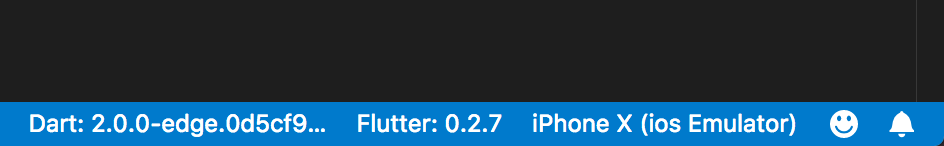
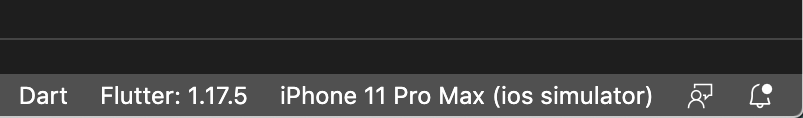
Update VS Code status bar images (#4337)
(The old image showed Flutter v0.2.7! We've come a long way since then.)

diff --git a/src/docs/development/tools/vs-code.md b/src/docs/development/tools/vs-code.md
@@ -71,7 +71,7 @@ enables the following:
   (**View > Problems** or `Ctrl`+`Shift`+`M`
   (`Cmd`+`Shift`+`M` on macOS))
   Any analysis issues are shown in the Problems pane:<br>
-  ![Problems pane]({% asset tools/vs-code/problems.png @path %}){:width="90%"}
+  ![Problems pane]({% asset tools/vs-code/problems.png @path %}){:.mw-100.pt-1}
 
 ## Running and debugging
 
@@ -99,9 +99,8 @@ from the main IDE window, or press `F5`.
 When a Flutter project is open in VS Code,
 you should see a set of Flutter specific entries in the status bar,
 including a Flutter SDK version and a
-device name (or the message **No Devices**).
-
-![Flutter device]({% asset tools/vs-code/device_status_bar.png @path %}){:width="450px"}
+device name (or the message **No Devices**):<br>
+![VS Code status bar][]{:.mw-100.pt-1}
 
 {{site.alert.note}}
   * If you do not see a Flutter version number or device info,
@@ -132,7 +131,7 @@ running or debugging.
  1. Click **Run > Start Without Debugging** in the
     main IDE window, or press `Ctrl`+`F5`.
     The status bar turns orange to show you are in a debug session.<br>
-    ![Debug console]({% asset tools/vs-code/debug_console.png @path %}){:width="490px"}
+    ![Debug console]({% asset tools/vs-code/debug_console.png @path %}){:.mw-100.pt-1}
 
 ### Run app with breakpoints
 
@@ -291,3 +290,4 @@ When filing new issues, include [flutter doctor][] output.
 [issue tracker]: {{site.github}}/Dart-Code/Dart-Code/issues
 [Running DevTools from VS Code]: /docs/development/tools/devtools/vscode
 [Set up an editor]: /docs/get-started/editor?tab=vscode
+[VS Code status bar]: {% asset tools/vs-code/device_status_bar.png @path %}

diff --git a/src/docs/get-started/test-drive/_vscode.md b/src/docs/get-started/test-drive/_vscode.md
@@ -21,7 +21,7 @@ contains a simple demo app that uses [Material Components][].
 ## Run the app
 
  1. Locate the VS Code status bar (the blue bar at the bottom of the
-    window):<br> ![status bar][]{:.mw-100}
+    window):<br> ![status bar][]{:.mw-100.pt-1.pb-2}
  1. Select a device from the **Device Selector** area.
     For details, see [Quickly switching between Flutter devices][].
     - If no device is available and you want to use a device simulator,
@@ -38,7 +38,7 @@ contains a simple demo app that uses [Material Components][].
       "request": "launch"
     }
     ```
-    
+
     For more information on adding a launch configuration, see
     ["Launch configurations" in the Visual Studio Code User Guide][launch config].
  1. Invoke **Run > Start Debugging** or press <kbd>F5</kbd>.
